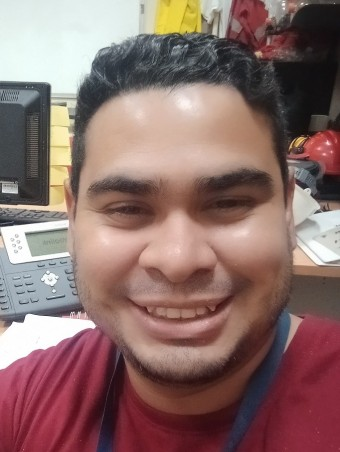
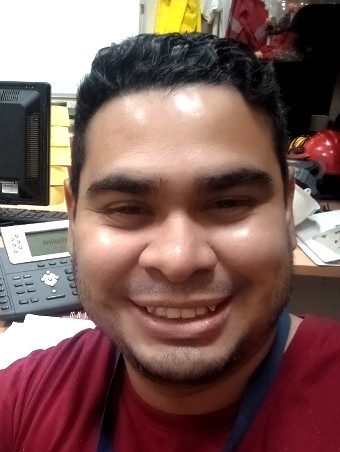
cambios foto prfil

diff --git a/portfolio/templates/home.html b/portfolio/templates/home.html
@@ -7,10 +7,11 @@
 <!-- Hero Section -->
 <header class="row bg-black">
   <div class="col-md-4">
-    <img src="{% static 'portfolio/profile.jpg' %}" />
+    <div class="rounded-circle overflow-hidden">
+      <img src="{% static 'portfolio/profile.jpg' %}" class="w-100"/>
+    </div>
   </div>
-
-  <div class="col-md-8 my-auto p-4">
+  <div class="col-8 my-auto p-4">
     <h1><strong> Ing. Daniel Arao</strong></h1>
     <h3>I'm a Python Developer</h3>
     <p>Lorem ipsum dolor sit amet consectetur adipisicing elit. Blanditiis tempora perspiciatis molestias iusto ducimus

diff --git a/portfolio/templates/layout.html b/portfolio/templates/layout.html
@@ -17,7 +17,7 @@
 
   {% include 'partials/navbar.html' %}
 
-  <div class="container p-4">
+  <div class="container p-10">
     {% block content %}
     {% endblock %}
   </div>

diff --git a/portfolio/static/main.css b/portfolio/static/main.css
@@ -1,7 +1,7 @@
 body {
     background: #090909;
   }
-  
+
   .bg-black {
     background: #000;
   }
